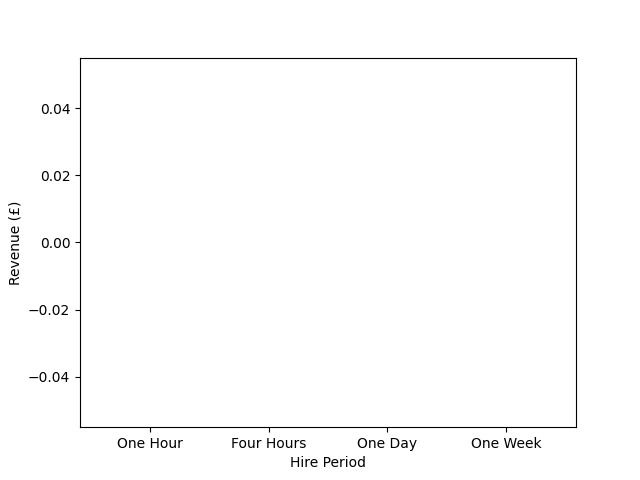
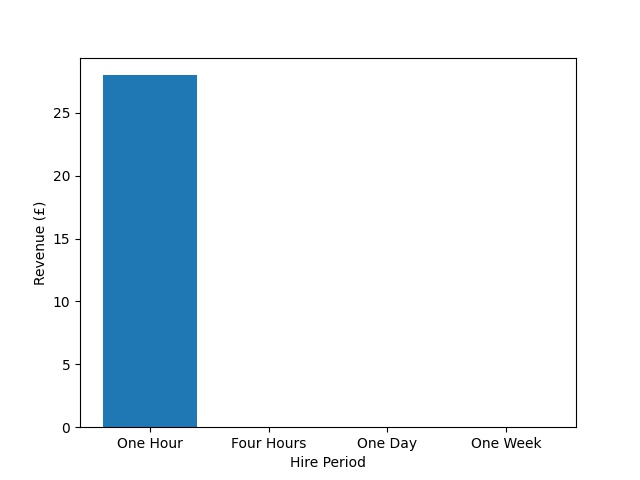
Completed the metrics page

diff --git a/app/templates/sales_metrics.html b/app/templates/sales_metrics.html
@@ -2,7 +2,7 @@
 {% block content %}
   <h1>Sales Metrics</h1>
 
-  <h2>Hire period stats</h2>
+  <h2>Weekly income for hire lengths</h2>
   <p>Week start: {{week_start.date()}}</p>
   <p>Week end: {{week_end.date()}}</p>
   <p>One hour metric: £{{one_hour_metric}}</p>
@@ -10,7 +10,7 @@
   <p>24 hours metric: £{{one_day_metric}}</p>
   <p>One week metric: £{{one_week_metric}}</p>
  
-  <h2>Weekly Metrics</h2>
+  <h2>Combined Daily Income</h2>
   <p>Week start: {{week_start.date()}}</p>
   <p>Week end: {{week_end.date()}}</p>
   <p>Monday Metrics: £{{monday_metrics}}</p>
@@ -27,6 +27,4 @@
   <p>Discounted transactions: {{discounted_transactions}}</p>
   <p>Normal transactions: {{normal_transactions}}</p>
 
-
-  <!-- Daily stats go here -->
 {% endblock %}

diff --git a/app/views.py b/app/views.py
@@ -4,9 +4,9 @@ from .forms import LoginForm, SignUpForm, AdminBookingForm, UserBookingForm, Car
 from flask_login import login_user, current_user, logout_user, login_required
 from datetime import datetime, timedelta
 import os
-# import smtplib
-# import matplotlib
-# import matplotlib.pyplot as plt
+import smtplib
+import matplotlib
+import matplotlib.pyplot as plt
 from flask_mail import Message
 
 #Unregistered user exclusive pages
@@ -948,9 +948,6 @@ def sales_metrics():
     # get all the transations
     transactions = models.transactions.query.all()
 
-    # get the current prices from the database
-    pricings = models.pricing.query.all()
-
     # for each transaction in if it is within the last week count it to the correct metric
     # need to multiply by the cost of each
     for transaction in transactions:
@@ -964,7 +961,7 @@ def sales_metrics():
             one_week_metric += transaction.transaction_cost
 
     # Calculate the metrics
-    # # Graph the hire period metrics
+    # Graph the hire period metrics
     # plt.bar([0,1,2,3], [one_hour_metric, four_hour_metric, one_day_metric, one_week_metric], tick_label=['One Hour', 'Four Hours', 'One Day', 'One Week'])
     # plt.xlabel('Hire Period')
     # plt.ylabel('Revenue (£)')
@@ -993,6 +990,12 @@ def sales_metrics():
             elif booking.initial_date_time.weekday() == 6 and transaction.booking_time > week_start and transaction.booking_time < week_end: # Sunday
                 sunday_metrics += booking.cost
 
+    # Graph the daily metrics
+    # plt.bar([0,1,2,3,4,5,6], [monday_metrics, tuesday_metrics, wednesday_metrics, thursday_metrics, friday_metrics, saturday_metrics, sunday_metrics], tick_label=['Monday', 'Tuesday', 'Wednesday', 'Thursday', 'Friday', 'Saturday', 'Sunday'])
+    # plt.xlabel('Day of Week')
+    # plt.ylabel('Revenue (£)')
+    # plt.savefig('app/graphs/daily.jpg')
+
     # discounted vs undiscounted transactions
     discounted_transactions, normal_transactions = 0, 0
     for transaction in transactions:
@@ -1001,11 +1004,11 @@ def sales_metrics():
         else:
             normal_transactions += 1
     
-    # # Graph the daily metrics
-    # plt.bar([0,1,2,3,4,5,6], [monday_metrics, tuesday_metrics, wednesday_metrics, thursday_metrics, friday_metrics, saturday_metrics, sunday_metrics], tick_label=['Monday', 'Tuesday', 'Wednesday', 'Thursday', 'Friday', 'Saturday', 'Sunday'])
-    # plt.xlabel('Day of Week')
-    # plt.ylabel('Revenue (£)')
-    # plt.savefig('app/graphs/daily.jpg')
+    # Graph the discounted vs undiscounted transactions
+    # plt.bar([0,1], [discounted_transactions, normal_transactions], tick_label=['Discounted transactions', 'Normal transactions'])
+    # plt.xlabel('Type of transaction')
+    # plt.ylabel('Count')
+    # plt.savefig('app/graphs/transaction_type.jpg')
 
     return render_template('sales_metrics.html',
                             title='View Sales Metrics',
